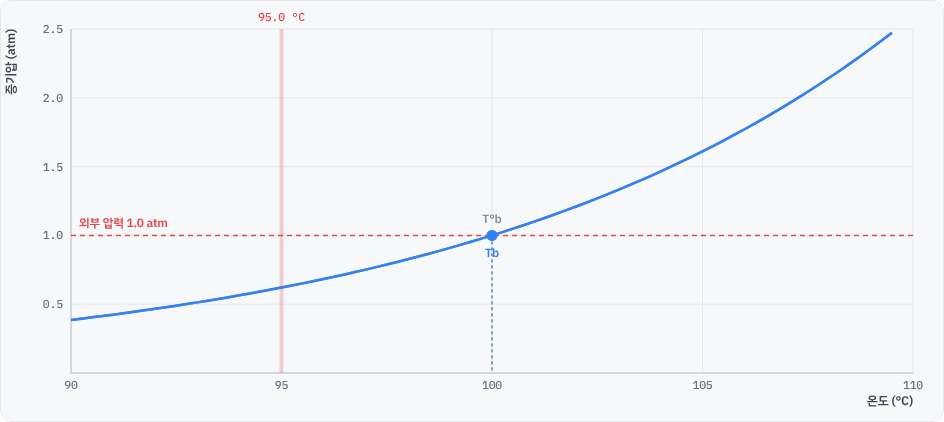
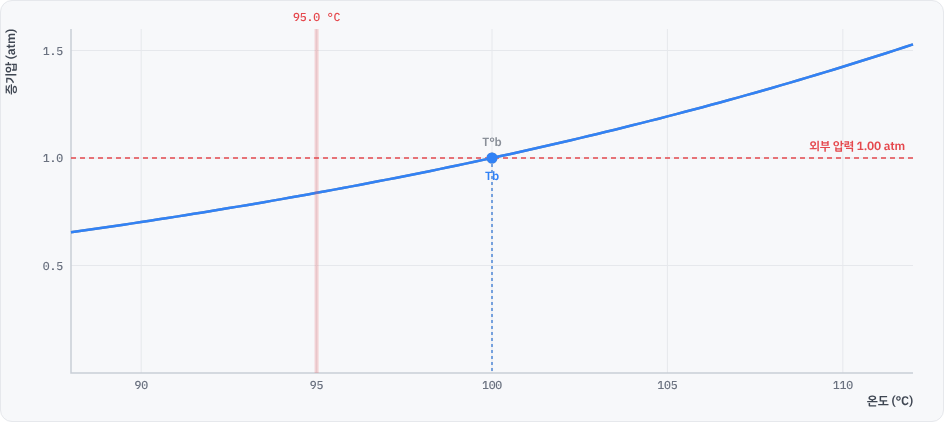
실험 화면 최적화와 내용 보정
화면
- 어는점 내림: 격자점·입자를 캔버스 폭에 맞춰 생성 (좁은 화면에서 입자가 한쪽에 몰리던 문제)
- 중화 적정: 넓은 화면은 안내 패널을 4번째 열로, 1080px 이하는 계산·결과를 아래 2열로 재배치
- 증기압·삼투압·결정 구조 그림을 폭에 따라 축소, 주사기 피스톤 위치를 비율로
- 끓는점 그래프의 외부 압력 라벨 위치 조정

내용
- 끓는점 오름: 증기압 곡선 기울기를 100 °C 부근 실제 물 값(약 3.6 %/°C)으로 보정, 외부 압력 0.7 atm에서 약 90 °C
- 어는점 내림: 순수 액체 곡선(점선) 추가로 용액 곡선의 이동 비교, 결빙 애니메이션 속도 조정
- 삼투압: 확대경에 물의 알짜 이동 방향 화살표와 설명 추가

Claude-Session: https://claude.ai/code/session_01YFfKQJw1u1SaPAgNkoRP8G

diff --git a/labs/chemistry/chem-smart-lab.html b/labs/chemistry/chem-smart-lab.html
@@ -11,7 +11,7 @@
         #cvs4 { touch-action: none; }
 
         /* 중화 적정: 조작(좌) · 장치(중앙) · 계산/결과(우) 3열 */
-        .e5-layout { display: grid; grid-template-columns: 290px 320px minmax(0, 1fr); gap: 12px; align-items: start; }
+        .e5-layout { display: grid; grid-template-columns: 300px 320px minmax(0, 1fr) 340px; gap: 12px; align-items: start; }
         .e5-visual {
             position: relative; width: 320px; height: 560px; background: #E9ECF0;
             border: 1px solid var(--line); border-radius: var(--radius); overflow: hidden;
@@ -58,7 +58,7 @@
         .e6-panel.active { display: flex; flex-direction: column; gap: 12px; animation: lab-fade .25s; }
         .e6-syringe-box { position: relative; width: 450px; max-width: 100%; height: 80px; margin: 0 auto; border: 1px solid var(--line); border-radius: var(--radius-sm); overflow: hidden; background: #fff; }
         #cvs6-syringe { position: absolute; left: 0; top: 0; width: 100%; height: 100%; z-index: 1; }
-        .e6-plunger { position: absolute; height: 100%; width: 450px; background: rgba(200, 205, 212, 0.85); right: 0; top: 0; border-left: 8px solid #3B4048; transition: transform 0.1s linear; z-index: 2; }
+        .e6-plunger { position: absolute; height: 100%; width: 100%; background: rgba(200, 205, 212, 0.85); right: 0; top: 0; border-left: 8px solid #3B4048; transition: transform 0.1s linear; z-index: 2; }
         .e6-count { display: flex; justify-content: center; gap: 18px; font-size: 13px; color: var(--text-2); padding: 8px; }
         .e6-count b { font-weight: 600; }
         #e6-toast { position: fixed; top: 16px; left: 50%; transform: translateX(-50%); background: var(--text); color: #fff; padding: 7px 14px; border-radius: 8px; font-size: 12.5px; z-index: 100; opacity: 0; transition: .4s; pointer-events: none; }
@@ -66,13 +66,19 @@
         .e6-species .row { gap: 6px; }
         .e6-species .legend { color: var(--text-2); }
 
+        @media (max-width: 1500px) {
+            .e5-layout { grid-template-columns: 300px 320px minmax(0, 1fr); }
+            .e5-guide { grid-column: 1 / -1; position: static; }
+        }
         @media (max-width: 1080px) {
-            .e5-layout { grid-template-columns: 1fr 1fr; }
-            .e5-visual { grid-row: 1 / span 2; grid-column: 2; justify-self: center; }
+            .e5-layout { grid-template-columns: minmax(0, 1fr) 320px; }
+            .e5-visual { justify-self: center; }
+            .e5-calc { grid-column: 1 / -1; display: grid; grid-template-columns: 1fr 1fr; gap: 12px; }
         }
         @media (max-width: 760px) {
             .e5-layout { grid-template-columns: 1fr; }
-            .e5-visual { grid-row: auto; grid-column: auto; justify-self: center; max-width: 100%; }
+            .e5-visual { justify-self: center; max-width: 100%; }
+            .e5-calc { grid-template-columns: 1fr; }
         }
     </style>
 </head>
@@ -212,7 +218,7 @@
                     <label>외부 압력 (atm)</label>
                     <div class="slider">
                         <button class="btn btn-icon" onclick="adjustSlider('c1-pe', -1)">−</button>
-                        <input type="range" id="c1-pe" min="0.5" max="2.0" step="0.1" value="1.0">
+                        <input type="range" id="c1-pe" min="0.7" max="1.4" step="0.05" value="1.0">
                         <button class="btn btn-icon" onclick="adjustSlider('c1-pe', 1)">+</button>
                     </div>
                     <div class="value" id="c1-pe-val">1.0</div>
@@ -221,7 +227,7 @@
                     <label>온도 (°C)</label>
                     <div class="slider">
                         <button class="btn btn-icon" onclick="adjustSlider('c1-t', -1)">−</button>
-                        <input type="range" id="c1-t" min="90" max="110" step="0.1" value="95">
+                        <input type="range" id="c1-t" min="88" max="112" step="0.1" value="95">
                         <button class="btn btn-icon" onclick="adjustSlider('c1-t', 1)">+</button>
                     </div>
                     <div class="value" id="c1-t-val">95.0</div>
@@ -374,7 +380,7 @@
                     <div class="e5-stirrer">MAGNETIC STIRRER</div>
                 </div>
 
-                <div class="stack">
+                <div class="stack e5-calc">
                     <div class="panel">
                         <h3>3. 농도 계산 (M₁V₁ = M₂V₂)</h3>
                         <div class="field"><label>표준 농도 M₁ (M)</label><input type="number" class="narrow" id="e5_calc_m1" value="1.0" readonly></div>
@@ -393,17 +399,19 @@
                         <canvas id="cvs5" width="350" height="220"></canvas>
                     </div>
                 </div>
+                <aside class="lab-side e5-guide"><div class="guide">
+                    <h3>이 실험에서</h3>
+                    <p>농도를 아는 표준 용액(1.0 M)을 뷰렛으로 떨어뜨려 미지 시료 20.0 mL를 중화시키고, 중화점까지 들어간 부피로 미지 농도를 구합니다. 지시약은 중화점의 pH에 맞는 것을 골라야 합니다.</p>
+                    <h4>탐구 과제</h4>
+                    <ol>
+                        <li>색이 변하기 시작하면 <b>미세 투입</b>으로 바꿔 한 방울 단위로 중화점을 찾고, 그 부피를 기록하세요.</li>
+                        <li>M₁V₁ = M₂V₂ 로 미지 농도를 계산해 결과 확인에 입력하세요. (허용 오차 ±0.1 M)</li>
+                        <li>지시약을 다른 것으로 바꿔 같은 적정을 해 보고, 오차가 왜 커지는지 안내문과 적정 곡선으로 설명하세요.</li>
+                        <li><b>pH 미터 표시</b>를 켜고 중화점 근처에서 pH가 급격히 변하는 구간을 관찰하세요.</li>
+                    </ol>
+                </div></aside>
             </div>
-            <details class="guide guide-wide" open>
-                <summary>이 실험에서 · 탐구 과제</summary>
-                <p>농도를 아는 표준 용액(1.0 M)을 뷰렛으로 떨어뜨려 미지 시료 20.0 mL를 중화시키고, 중화점까지 들어간 부피로 미지 농도를 구합니다. 지시약은 중화점의 pH에 맞는 것을 골라야 합니다.</p>
-                <ol>
-                    <li>색이 변하기 시작하면 <b>미세 투입</b>으로 바꿔 한 방울 단위로 중화점을 찾고, 그 부피를 기록하세요.</li>
-                    <li>M₁V₁ = M₂V₂ 로 미지 농도를 계산해 결과 확인에 입력하세요. (허용 오차 ±0.1 M)</li>
-                    <li>지시약을 다른 것으로 바꿔 같은 적정을 해 보고, 오차가 왜 커지는지 안내문과 적정 곡선으로 설명하세요.</li>
-                    <li><b>pH 미터 표시</b>를 켜고 중화점 근처에서 pH가 급격히 변하는 구간을 관찰하세요.</li>
-                </ol>
-            </details>
+
         </section>
 
         <!-- 7. 르샤틀리에 원리 -->
@@ -570,6 +578,7 @@
             const w = cvs0.width, h = cvs0.height;
             ctx0.clearRect(0, 0, w, h);
             const cx = w / 2, baseY = h - 60, barW = 110, maxH = 250, scale = maxH / 760;
+            const sc0 = Math.min(1, (w - 16) / 560); ctx0.save(); ctx0.translate(cx, 0); ctx0.scale(sc0, sc0); ctx0.translate(-cx, 0);
             // 기준선·축
             ctx0.strokeStyle = "#C9CED6"; ctx0.lineWidth = 1.5;
             ctx0.beginPath(); ctx0.moveTo(cx - 260, baseY); ctx0.lineTo(cx + 260, baseY); ctx0.stroke();
@@ -595,6 +604,7 @@
             ctx0.beginPath(); ctx0.moveTo(cx - 55, baseY - pureH); ctx0.lineTo(cx + 55, baseY - pureH); ctx0.stroke();
             ctx0.beginPath(); ctx0.moveTo(cx - 55, baseY - solH); ctx0.lineTo(cx + 55, baseY - solH); ctx0.stroke();
             ctx0.setLineDash([]);
+            ctx0.restore();
         }
         drawers[1] = drawExp0;
 
@@ -607,43 +617,44 @@
         const c1_t = document.getElementById('c1-t');
         const c1_pe = document.getElementById('c1-pe');
         const KB_WATER = 0.52;
+        const VP_BASE = 1.036;   // 100 °C 부근 물의 증기압 변화율 (약 3.6 %/°C, 클라우지우스-클라페이롱). 0.7 atm → 약 90 °C
 
         function drawExp1() {
             cvs1.width = cvs1.parentElement.clientWidth;
             const w = cvs1.width, h = cvs1.height;
             const m = parseFloat(c1_m.value), currentT = parseFloat(c1_t.value), pe = parseFloat(c1_pe.value);
             const bp_pure = 100, dTb = KB_WATER * m, bp_sol = bp_pure + dTb;
-            const shift = Math.log(pe) / Math.log(1.1);                 // 외부 압력에 따른 끓는점 이동 (모형: P = 1.1^(t − Tb))
+            const shift = Math.log(pe) / Math.log(VP_BASE);             // 외부 압력에 따른 끓는점 이동 (모형: P = VP_BASE^(t − Tb))
             const actual_bp_pure = bp_pure + shift, actual_bp_sol = bp_sol + shift;
 
             document.getElementById('c1-m-val').innerText = m.toFixed(1);
-            document.getElementById('c1-pe-val').innerText = pe.toFixed(1);
+            document.getElementById('c1-pe-val').innerText = pe.toFixed(2);
             document.getElementById('c1-t-val').innerText = currentT.toFixed(1);
             document.getElementById('d1-m').innerText = m.toFixed(1) + " m";
-            document.getElementById('d1-pe').innerText = pe.toFixed(1) + " atm";
+            document.getElementById('d1-pe').innerText = pe.toFixed(2) + " atm";
             document.getElementById('d1-tb').innerText = actual_bp_sol.toFixed(2) + " °C";
             const statusEl = document.getElementById('d1-status');
             if (currentT >= actual_bp_sol) { statusEl.innerText = "끓는 중 (용액의 증기압 = 외부 압력)"; statusEl.className = "msg err"; }
             else { statusEl.innerText = `가열 중 · 끓는점까지 ${(actual_bp_sol - currentT).toFixed(1)} °C`; statusEl.className = "msg"; }
-            setFormula('f1', `ΔT<sub>b</sub> = K<sub>b</sub>·m = 0.52 × ${m.toFixed(1)} = <b>${dTb.toFixed(2)} °C</b><br>T<sub>b</sub> = 100 + ${dTb.toFixed(2)} = <b>${bp_sol.toFixed(2)} °C</b> (1 atm)${pe !== 1 ? `<br>외부 압력 ${pe.toFixed(1)} atm 에서는 <b>${actual_bp_sol.toFixed(2)} °C</b>` : ""}`);
+            setFormula('f1', `ΔT<sub>b</sub> = K<sub>b</sub>·m = 0.52 × ${m.toFixed(1)} = <b>${dTb.toFixed(2)} °C</b><br>T<sub>b</sub> = 100 + ${dTb.toFixed(2)} = <b>${bp_sol.toFixed(2)} °C</b> (1 atm)${pe !== 1 ? `<br>외부 압력 ${pe.toFixed(2)} atm → <b>${actual_bp_sol.toFixed(2)} °C</b>` : ""}`);
 
             ctx1.clearRect(0, 0, w, h);
             const box = { L: 70, R: w - 30, T: 28, B: h - 48 };
-            const tMin = 90, tMax = 110, pMax = 2.5;
+            const tMin = 88, tMax = 112, pMax = 1.6;
             const mapT = t => box.L + (t - tMin) / (tMax - tMin) * (box.R - box.L);
             const mapP = p => box.B - (p / pMax) * (box.B - box.T);
-            drawAxes(ctx1, box, { ticks: [90, 95, 100, 105, 110], map: mapT }, { ticks: [0.5, 1, 1.5, 2, 2.5], map: mapP, fmt: v => v.toFixed(1) }, "온도 (°C)", "증기압 (atm)");
+            drawAxes(ctx1, box, { ticks: [90, 95, 100, 105, 110], map: mapT }, { ticks: [0.5, 1, 1.5], map: mapP, fmt: v => v.toFixed(1) }, "온도 (°C)", "증기압 (atm)");
 
             // 외부 압력선
             const patmY = mapP(pe);
             ctx1.strokeStyle = "#E5484D"; ctx1.lineWidth = 1.5; ctx1.setLineDash([5, 4]);
             ctx1.beginPath(); ctx1.moveTo(box.L, patmY); ctx1.lineTo(box.R, patmY); ctx1.stroke(); ctx1.setLineDash([]);
-            ctx1.fillStyle = "#E5484D"; ctx1.font = `600 12px ${FONT}`; ctx1.textAlign = "left"; ctx1.fillText(`외부 압력 ${pe.toFixed(1)} atm`, box.L + 8, patmY - 8);
+            ctx1.fillStyle = "#E5484D"; ctx1.font = `600 12px ${FONT}`; ctx1.textAlign = "right"; ctx1.fillText(`외부 압력 ${pe.toFixed(2)} atm`, box.R - 8, patmY - 8);
 
             const drawCurve = (bp, color, label, above) => {
                 ctx1.strokeStyle = color; ctx1.lineWidth = 2.5; ctx1.beginPath(); let started = false;
                 for (let t = tMin; t <= tMax; t += 0.25) {
-                    const p = Math.pow(1.1, t - bp); if (p > pMax) break;
+                    const p = Math.pow(VP_BASE, t - bp); if (p > pMax) break;
                     if (!started) { ctx1.moveTo(mapT(t), mapP(p)); started = true; } else ctx1.lineTo(mapT(t), mapP(p));
                 }
                 ctx1.stroke();
@@ -661,7 +672,7 @@
                 ctx1.strokeStyle = "#E5484D"; ctx1.lineWidth = 2; ctx1.beginPath(); ctx1.moveTo(xPure, arrowY); ctx1.lineTo(xSol, arrowY); ctx1.stroke();
                 ctx1.fillStyle = "#E5484D"; ctx1.beginPath(); ctx1.moveTo(xSol, arrowY); ctx1.lineTo(xSol - 6, arrowY - 4); ctx1.lineTo(xSol - 6, arrowY + 4); ctx1.fill();
                 ctx1.font = `600 12px ${FONT}`; ctx1.textAlign = "center"; ctx1.fillText(`ΔTb = ${dTb.toFixed(2)} °C`, (xPure + xSol) / 2, arrowY - 8);
-                const pSolAtPureBP = Math.pow(1.1, actual_bp_pure - bp_sol);   // ΔP 화살표 (순수 용매 끓는점에서)
+                const pSolAtPureBP = Math.pow(VP_BASE, actual_bp_pure - bp_sol);   // ΔP 화살표 (순수 용매 끓는점에서)
                 const ySol = mapP(pSolAtPureBP);
                 ctx1.strokeStyle = "#3182F6"; ctx1.beginPath(); ctx1.moveTo(xPure, patmY); ctx1.lineTo(xPure, ySol); ctx1.stroke();
                 ctx1.fillStyle = "#3182F6"; ctx1.beginPath(); ctx1.moveTo(xPure, ySol); ctx1.lineTo(xPure - 4, ySol - 6); ctx1.lineTo(xPure + 4, ySol - 6); ctx1.fill();
@@ -686,21 +697,24 @@
         const c2_c = document.getElementById('c2-c');
         const KF_WATER = 1.86;
 
-        const hexPoints = [];
         const R = 22, dx = R * Math.sqrt(3), dy = R * 1.5;
-        for (let row = 0; row < 7; row++) {
-            for (let col = 0; col < 25; col++) {
-                const x1 = 30 + col * dx + (row % 2) * (dx / 2), y1 = 30 + row * dy;
-                hexPoints.push({ x: x1, y: y1 }); hexPoints.push({ x: x1, y: y1 + R });
+        let waterParticles = [], soluteParticles = [], lastW2 = 0;
+        function buildParticles2(w, h) {            // 캔버스 폭에 맞춰 육각 격자점과 입자를 다시 만듦
+            const cols = Math.max(6, Math.floor((w - 40) / dx)), rows = Math.max(3, Math.min(7, Math.floor((h - 30) / dy)));
+            waterParticles = [];
+            for (let row = 0; row < rows; row++) for (let col = 0; col < cols; col++) {
+                const x1 = 24 + col * dx + (row % 2) * (dx / 2), y1 = 24 + row * dy;
+                [{ x: x1, y: y1 }, { x: x1, y: y1 + R }].forEach(pt => waterParticles.push({ x: Math.random() * w, y: Math.random() * h, vx: (Math.random() - 0.5) * 0.5, vy: (Math.random() - 0.5) * 0.5, targetX: pt.x, targetY: pt.y }));
             }
+            soluteParticles = [];
+            for (let i = 0; i < 30; i++) soluteParticles.push({ x: Math.random() * w, y: Math.random() * h, vx: (Math.random() - 0.5) * 0.2, vy: (Math.random() - 0.5) * 0.2 });
+            lastW2 = w;
         }
-        let waterParticles = hexPoints.map(pt => ({ x: Math.random() * 900, y: Math.random() * 250, vx: (Math.random() - 0.5) * 0.5, vy: (Math.random() - 0.5) * 0.5, targetX: pt.x, targetY: pt.y }));
-        let soluteParticles = [];
-        for (let i = 0; i < 30; i++) soluteParticles.push({ x: Math.random() * 800, y: Math.random() * 250, vx: (Math.random() - 0.5) * 0.2, vy: (Math.random() - 0.5) * 0.2 });
 
         function drawExp2() {
             cvs2t.width = cvs2t.parentElement.clientWidth;
             cvs2b.width = cvs2b.parentElement.clientWidth;
+            if (cvs2b.width !== lastW2) buildParticles2(cvs2b.width, cvs2b.height);
             const tc = parseFloat(c2_t.value), conc = parseFloat(c2_c.value);
             const dTf = KF_WATER * conc, tf = -dTf, isFrozen = tc <= tf;
 
@@ -726,9 +740,15 @@
             // 고체(회색) 곡선: (-15,140)→(0,70)  액체(파랑): (-10,85)→(15,45), 농도에 따라 아래로
             const s = 1 + 3.22 * conc;
             ctx2t.strokeStyle = "#6B7684"; ctx2t.lineWidth = 2.5; ctx2t.beginPath(); ctx2t.moveTo(mapTx(-15), 120); ctx2t.lineTo(mapTx(0), 70); ctx2t.stroke();
-            ctx2t.strokeStyle = "#3182F6"; ctx2t.beginPath(); ctx2t.moveTo(mapTx(-10), 85 + s); ctx2t.lineTo(mapTx(10), 53 + s); ctx2t.stroke();
-            ctx2t.fillStyle = "#6B7684"; ctx2t.font = `600 11.5px ${FONT}`; ctx2t.textAlign = "left"; ctx2t.fillText("고체", mapTx(0) + 4, 68);
-            ctx2t.fillStyle = "#3182F6"; ctx2t.fillText("액체(용액)", mapTx(10) + 4, 56 + s);
+            if (conc > 0) {                                                   // 순수 액체 곡선(점선) → 용액 곡선이 아래로 내려온 것을 비교
+                ctx2t.setLineDash([4, 4]); ctx2t.strokeStyle = "#9AA3B0"; ctx2t.lineWidth = 1.5;
+                ctx2t.beginPath(); ctx2t.moveTo(mapTx(-10), 86); ctx2t.lineTo(mapTx(10), 54); ctx2t.stroke(); ctx2t.setLineDash([]);
+                ctx2t.fillStyle = "#9AA3B0"; ctx2t.font = `600 11.5px ${FONT}`; ctx2t.textAlign = "left"; ctx2t.fillText("순수 액체", mapTx(10) + 4, 50);
+                ctx2t.fillStyle = "#9AA3B0"; ctx2t.beginPath(); ctx2t.arc(mapTx(0), 70, 4, 0, Math.PI * 2); ctx2t.fill();
+            }
+            ctx2t.strokeStyle = "#3182F6"; ctx2t.lineWidth = 2.5; ctx2t.beginPath(); ctx2t.moveTo(mapTx(-10), 85 + s); ctx2t.lineTo(mapTx(10), 53 + s); ctx2t.stroke();
+            ctx2t.fillStyle = "#6B7684"; ctx2t.font = `600 11.5px ${FONT}`; ctx2t.textAlign = "left"; ctx2t.fillText("고체", mapTx(0) + 4, 68 + (conc > 0 ? 14 : 0));
+            ctx2t.fillStyle = "#3182F6"; ctx2t.fillText(conc > 0 ? "용액" : "액체", mapTx(10) + 4, 58 + s);
             const ix = mapTx(tf), iy = 70 - 3.333 * tf;                      // 교점 = 어는점
             ctx2t.fillStyle = "#E5484D"; ctx2t.beginPath(); ctx2t.arc(ix, iy, 5.5, 0, Math.PI * 2); ctx2t.fill();
             ctx2t.fillStyle = "#111111"; ctx2t.font = `600 12px ${FONT}`; ctx2t.textAlign = "center"; ctx2t.fillText(`Tf = ${tf.toFixed(2)} °C`, ix, iy - 12);
@@ -748,7 +768,7 @@
             let speedMultiplier = Math.min(1, Math.max(0.02, (tc - tf) / (5 - tf)));
             ctx2b.fillStyle = "#3182F6";
             waterParticles.forEach(p => {
-                if (isFrozen) { p.x += (p.targetX - p.x) * 0.003; p.y += (p.targetY - p.y) * 0.003; }
+                if (isFrozen) { p.x += (p.targetX - p.x) * 0.02; p.y += (p.targetY - p.y) * 0.02; }
                 else {
                     p.x += p.vx * speedMultiplier; p.y += p.vy * speedMultiplier;
                     if (p.x < 10) { p.x = 10; p.vx *= -1; } else if (p.x > cvs2b.width - 10) { p.x = cvs2b.width - 10; p.vx *= -1; }
@@ -857,6 +877,8 @@
             leftY += (targetLeftY - leftY) * 0.05;
 
             ctx3.clearRect(0, 0, cvs3.width, cvs3.height);
+            const sc3 = Math.min(1, (cvs3.width - 16) / 440);   // 좁은 화면에서는 그림을 통째로 축소
+            ctx3.save(); ctx3.translate(cx, 0); ctx3.scale(sc3, sc3); ctx3.translate(-cx, 0);
 
             const defineU = () => {
                 ctx3.beginPath();
@@ -910,6 +932,18 @@
                 ctx3.fillStyle = pt.color; ctx3.fill();
             });
 
+            // 알짜 물 이동 방향 (반투막 기준)
+            const net = ((m === 0 && p === 0) || Math.abs(pi - p) < 0.5) ? 0 : (pi > p ? 1 : -1);
+            const ay = 300;
+            ctx3.strokeStyle = "#111111"; ctx3.fillStyle = "#111111"; ctx3.lineWidth = 2.5;
+            if (net !== 0) {
+                const x1 = cx - 46 * net, x2 = cx + 46 * net;
+                ctx3.beginPath(); ctx3.moveTo(x1, ay); ctx3.lineTo(x2, ay); ctx3.stroke();
+                ctx3.beginPath(); ctx3.moveTo(x2, ay); ctx3.lineTo(x2 - 10 * net, ay - 5); ctx3.lineTo(x2 - 10 * net, ay + 5); ctx3.fill();
+            }
+            ctx3.font = `600 12px ${FONT}`; ctx3.textAlign = "center";
+            ctx3.fillText(net === 0 ? "물의 알짜 이동 없음 (양방향 같음)" : (net > 0 ? "물의 알짜 이동 → 용액 쪽 (삼투)" : "물의 알짜 이동 ← 용매 쪽 (역삼투)"), cx, ay + 20);
+            ctx3.restore();
         }
         drawers[4] = drawExp3;
 
@@ -1030,7 +1064,7 @@
             document.getElementById('d4-coord').innerText = cMode === 0 ? "-" : (cSize === 1 ? "2×2×2 격자에서 확인하세요 (1×1×1은 기준 원자가 모서리라 일부만 보입니다)" : cMode === 1 ? `최근접 원자 ${count}개 (배위수)` : `두 번째로 가까운 원자 ${count}개`);
 
             ctx4.clearRect(0, 0, cvs4.width, cvs4.height);
-            const cx = cvs4.width / 2, cy = cvs4.height / 2, scale = 120;
+            const cx = cvs4.width / 2, cy = cvs4.height / 2, scale = Math.min(120, cvs4.width / 5.6);
 
             let proj = cAtoms.map(pt => {
                 let x1 = pt.x * Math.cos(rotY) - pt.z * Math.sin(rotY);
@@ -1400,7 +1434,7 @@
                 if (m1_piston_dir === -1 && m1_vol > 0.15) m1_vol -= 0.0025;
                 else if (m1_piston_dir === 1 && m1_vol < 1.0) m1_vol += 0.0025;
                 const pX = m1_vol * 450;
-                document.getElementById('e6-plunger-visual').style.transform = `translateX(${pX}px)`;
+                document.getElementById('e6-plunger-visual').style.transform = `translateX(${(m1_vol * 100).toFixed(2)}%)`;
                 const vEffect = (1.0 - m1_vol) * 1.5;
                 let curTargetNo2 = m1_target_no2 - vEffect; if (curTargetNo2 < 0.2) curTargetNo2 = 0.2;
                 m1_n_no2 += (curTargetNo2 - m1_n_no2) * 0.03;

diff --git a/assets/css/lab-theme.css b/assets/css/lab-theme.css
@@ -178,7 +178,7 @@ input[type="number"].narrow { width: 84px; text-align: center; font-family: var(
 .guide[open] summary { margin-bottom: 8px; }
 .guide-wide { margin-top: 12px; }
 .guide-wide ol { columns: 2; column-gap: 28px; }
-.formula { font-family: var(--mono); font-size: 13.5px; line-height: 1.7; color: var(--text-2); background: var(--panel-2); border: 1px solid var(--line); border-radius: var(--radius-sm); padding: 10px 12px; }
+.formula { font-family: var(--mono); font-size: 13px; line-height: 1.7; color: var(--text-2); background: var(--panel-2); border: 1px solid var(--line); border-radius: var(--radius-sm); padding: 10px 12px; }
 .formula b { color: var(--accent); font-weight: 600; }
 .formula sub { font-size: .75em; }
 
